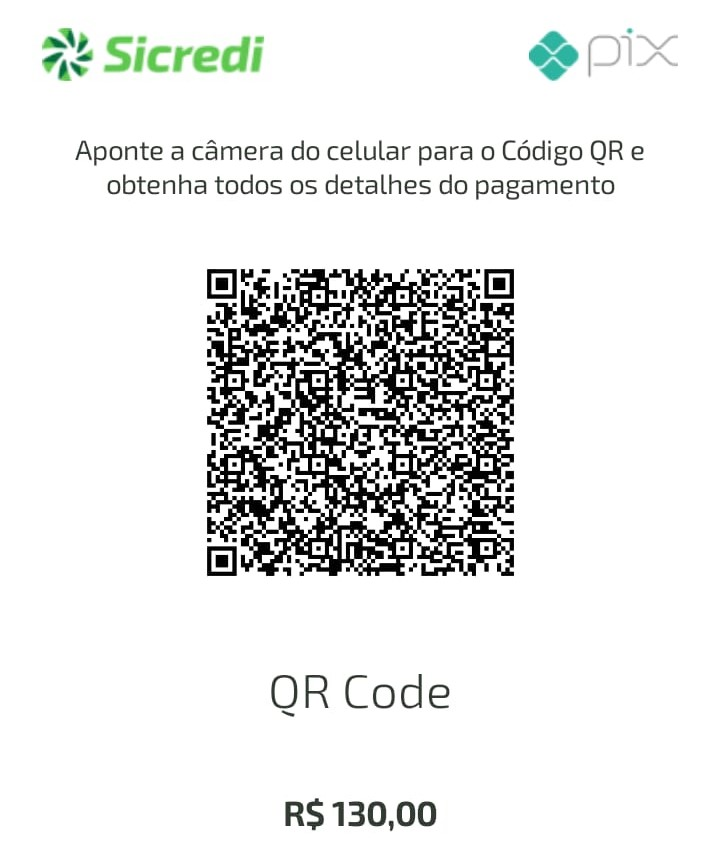
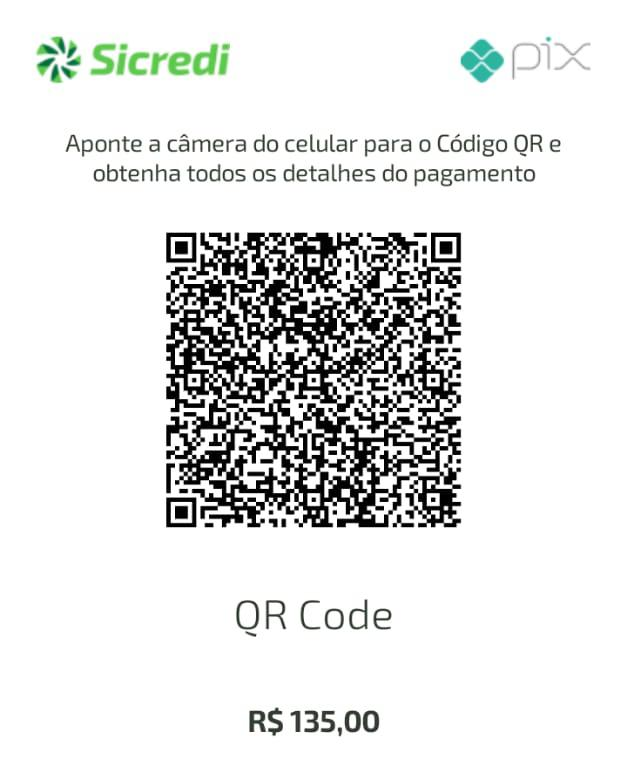
Co-authored-by: rafammh <rafammh@users.noreply.github.com>

diff --git a/teste.js b/teste.js
@@ -10,23 +10,68 @@ export let canvas = () => {
     canvas.height = 838;
     var img = new Image();
     var img2 = new Image();
-    let w = img2.width
-    canvas.onmousemove = function (evt) {
-        let rect = canvas.getBoundingClientRect();
-        let x = event.clientX - rect.left;
-        let y = event.clientY - rect.top;
-        document.querySelector("#cord").innerHTML = `x: ${x} y: ${y}`
-    }
+
+    // let w = img2.width
+    // canvas.onmousemove = function (evt) {
+    //     let rect = canvas.getBoundingClientRect();
+    //     let x = event.clientX - rect.left;
+    //     let y = event.clientY - rect.top;
+    //     document.querySelector("#cord").innerHTML = `x: ${x} y: ${y}`
+    // }
     // usaremos a imagem após ela ser carregada
     img2.addEventListener('load', function () {
         // após baixar a imagem, podemos desenha-la no canvas
         let h = this.height
         let w = this.width
-        let p = h / w
-        let nh = h / p
-        console.log(nh);
+        function fundo() {
+            fundoImg.src = "fundo.png";
+            ctx.drawImage(fundoImg, 0, 0);
+        }
+        // w = 322,5 h= 430
+        // 100 - 40 = 60
+        // 100 * 0.6
+        if (h > w) {
+            let qtp = 42700 / h
+            let resto = h - (h * (qtp / 100))
+            let restoPorc = resto * 100
+            let diferenca = restoPorc / h
+            let nh = h - (h * (diferenca / 100))
+            let nw = w - (w * (diferenca / 100))
+            let xi = 75 + ((430 - nw) / 2)
+            // let Hp = h / (porcento)
+            // let difernca = Hp * h
+            // let NovaH = h - difernca
+            // console.log('por', porcento)
+            console.log('novaH', nh)
+            console.log('novaw', nw)
+            // let p = h / w
+            // let nh = h / p
+            // console.log(nh);
+            ctx.drawImage(this, xi, 290, nw, nh);
+        } else if (w > h) {
+            let qtp = 42700 / w
+            let resto = w - (w * (qtp / 100))
+            let restoPorc = resto * 100
+            let diferenca = restoPorc / w
+            let nh = h - (h * (diferenca / 100))
+            let nw = w - (w * (diferenca / 100))
+            let yi = 290 + ((430 - nh) / 2)
+            // let Hp = h / (porcento)
+            // let difernca = Hp * h
+            // let NovaH = h - difernca
+            // console.log('por', porcento)
+            console.log('novaH', nh)
+            console.log('novaw', nw)
+            // let p = h / w
+            // let nh = h / p
+            // console.log(nh);
+            ctx.drawImage(this, 80, yi, nw, nh);
 
-        ctx.drawImage(this, 70, 290, w, nh);
+        } else {
+            ctx.drawImage(this, 70, 290, 430, 430);
+
+        }
+
         // onde this representa a imagem recém carregada
     });
     img.addEventListener('load', function () {
@@ -35,7 +80,8 @@ export let canvas = () => {
         // onde this representa a imagem recém carregada
     });
     img.src = './assets/images/cardfotos/card-racing.png';
-    img2.src = './assets/images/1.jpg';
+
+    img2.src = './assets/images/novos-desafios.png';
     // }
     // / instancia uma nova imagem
 
@@ -43,6 +89,13 @@ export let canvas = () => {
 
 
     // console.log('canvasHandler', canvasHandler)
+    var grd = ctx.createLinearGradient(0, 0, 0, 1000);
+    grd.addColorStop(0, "#2e1c2b");
+    grd.addColorStop(0.5, "#de5d12");
+    grd.addColorStop(1, "#842029");
+    // Fill with gradient
+    ctx.fillStyle = grd;
+    ctx.fillRect(10, 10, 1000, 800);
 }
 document.querySelector("#btnDownload").addEventListener('click', () => {
     download()

diff --git a/qwer/assets/js/main.js b/qwer/assets/js/main.js
@@ -61,7 +61,7 @@ docs.forEach(item => {
         cardStatus.innerHTML = item.status
         BtnComIcone("submit", 'btn-outline-secondary', "btnCadastrar", 'fa', 'fa-check', "Enviar", '#envio')
         if (itemPais == 'Brasil') {
-            document.querySelector("#txtDesconto").innerHTML = `<b>2° Lote </b> (de 07.10 à 31.10) R$135,00`
+            document.querySelector("#txtDesconto").innerHTML = `<b>Lote Sprint </b> (de 07.10 à 31.10) R$135,00`
             BotoesPorNacionalidade(itemPais)
             let btnLinkPagamento = document.querySelector("#btnLinkPagamento")
             // let btnUy = document.querySelector("#btnPagamentoUy")
@@ -81,7 +81,7 @@ docs.forEach(item => {
                 VerificaFormaPagamento2(btnLinkPagamento, btnPix, p)
             })
         } else if (itemPais == 'Uruguai') {
-            document.querySelector("#txtDesconto").innerHTML = `<b>2° Lote </b> (de 07.10 à 21.10) $1350,00`
+            document.querySelector("#txtDesconto").innerHTML = `<b>Lote Sprint </b> (de 07.10 à 21.10) $1350,00`
             BotoesPorNacionalidade(itemPais)
             let btnLinkPagamento = document.querySelector("#btnLinkPagamento")
             // let btnBr = document.querySelector("#btnPagamentoBr")
@@ -120,7 +120,7 @@ docs.forEach(item => {
         cardStatus.innerHTML = item.status;
         BtnComIcone("submit", 'btn-outline-secondary', "btnCadastrar", 'fa', 'fa-check', "Enviar", '#envio')
         if (itemPais == 'Brasil') {
-            document.querySelector("#txtDesconto").innerHTML = `<b>2° Lote </b> (de 07.10 à 21.10) R$135,00`
+            document.querySelector("#txtDesconto").innerHTML = `<b>Lote Sprint </b> (de 07.10 à 21.10) R$135,00`
             BotoesPorNacionalidade(itemPais)
             let btnLinkPagamento = document.querySelector("#btnLinkPagamento")
             btnLinkPagamento.hidden = true
@@ -138,7 +138,7 @@ docs.forEach(item => {
                 VerificaFormaPagamento2(btnLinkPagamento, btnPix, p)
             })
         } else if (itemPais == 'Uruguai') {
-            document.querySelector("#txtDesconto").innerHTML = `<b>2° Lote </b> (de 07.10 à 21.10) $1350,00`
+            document.querySelector("#txtDesconto").innerHTML = `<b>Lote Sprint </b> (de 07.10 à 21.10) $1350,00`
             BotoesPorNacionalidade(itemPais)
             let btnLinkPagamento = document.querySelector("#btnLinkPagamento")
             btnLinkPagamento.hidden = true

diff --git a/qwer/index.html b/qwer/index.html
@@ -193,16 +193,22 @@
           </div>
           <div class="modal-body" id="modalBody">
             <img src="assets/images/qrcode.jpg" alt="QRcode" class="img-fluid">
-            <input type="text" class="form-control" name="texto" id="codigoQR"
-              value="00020101021126820014br.gov.bcb.pix0114477893600001880242Inscrição lote promocional Experience 20225204000053039865406130.005802BR5913YELLOW SPORTS6008BRASILIA621005061Exp2263048B4C"
-              readonly />
+            <div class="input-group">
+              <input type="text" class="form-control" name="texto" id="codigoQR"
+                value="00020101021126670014br.gov.bcb.pix0114477893600001880227Lote Sprint Experience 20225204000053039865406135.005802BR5913YELLOW SPORTS6008BRASILIA621405102loteExp226304CAEE"
+                readonly />
+              <button title="Copiar" id="copiarQR" type="button" class="btn btn-outline-success "><i class="fa fa-copy"
+                  aria-hidden="true"></i>
+              </button>
+            </div>
             <div class="text-center">
-              <button id="copiarQR" type="button" class="btn btn-primary">Copiar</button>
-              <div class="p-1">
-                <p><b>Yellow Sports</b></p>
-                <span><b>Chave Pix</b></span>
-                <p><b>CNPJ: </b>47.789.360/0001-88</p>
-              </div>
+              Ou, Copie o código
+            </div>
+
+            <div class="text-center mt-3">
+              <p><b>Yellow Sports</b></p>
+              <span><b>Chave Pix</b></span>
+              <p><b>CNPJ: </b>47.789.360/0001-88</p>
             </div>
           </div>
         </div>

diff --git a/assets/js/cadastro/index.js b/assets/js/cadastro/index.js
@@ -113,7 +113,7 @@ export async function Cadastrar() {
                         loginCad(doc, psw, pais)
                         limparDados()
                     }
-                    alert("Cadastro Feito com Sucesso!!!")
+                    // alert("Cadastro Feito com Sucesso!!!")
 
                 } else if (txtModalidade.value == "Challenge") {
                     if (imgRef != null) {
@@ -157,7 +157,7 @@ export async function Cadastrar() {
                         loginCad(doc, psw, pais)
                         limparDados()
                     }
-                    alert("Cadastro Feito com Sucesso!!!")
+                    // alert("Cadastro Feito com Sucesso!!!")
                 }
                 else {
                     alert("Preencha o Formulário corretamente")

diff --git a/index.html b/index.html
@@ -327,7 +327,7 @@
     <a class="btn btn-outline-light"
       href="https://drive.google.com/file/d/1qf5huWycGeP-ilEyvfmyZ42xe0Vmt5UY/view?usp=sharing" target="_blank"
       rel="noopener noreferrer">Saiba Mais</a>
-    <p class="text-bg-warning m-2"><b>2° Lote </b> (de 07.10 à 21.10) R$135,00 BR ou $1350,00 UY</p>
+    <p class="text-bg-warning m-2"><b>Lote Sprint </b> (de 07.10 à 21.10) R$135,00 BR ou $1350,00 UY</p>
   </div>
   <div class="container py-2">
     <h2 class="text-dark">Sobre</h2>

diff --git a/teste.html b/teste.html
@@ -13,7 +13,7 @@
         <button type="button" id="btnDownload">Download</button>
     </a>
     <!-- <img src="assets/images/cardfotos/card-racing.png" width="1000"> -->
-    <canvas id="myCanvas">Your browser does not support Canvas.</canvas>
+    <canvas id="myCanvas" class="mycanvas">Your browser does not support Canvas.</canvas>
     <div class="" id="cord"></div>
     <script type='module' src="teste.js">
     </script>

diff --git a/assets/css/teste.css b/assets/css/teste.css
@@ -1,0 +1,13 @@
+:root {
+  --laranja: #de5d12;
+  --preto-azulado: #071b33;
+  --verde: #344f29;
+  --bordo: #842029;
+  --roxo: #2e1c2b;
+  --max-heigth-card: 100vh;
+  --height-card-sm: calc(250px + 13vw);
+  --height-card-md: calc(20em + 13vw);
+}
+.mycanvas {
+  background: linear-gradient(var(--roxo), var(--laranja), var(--bordo));
+}
